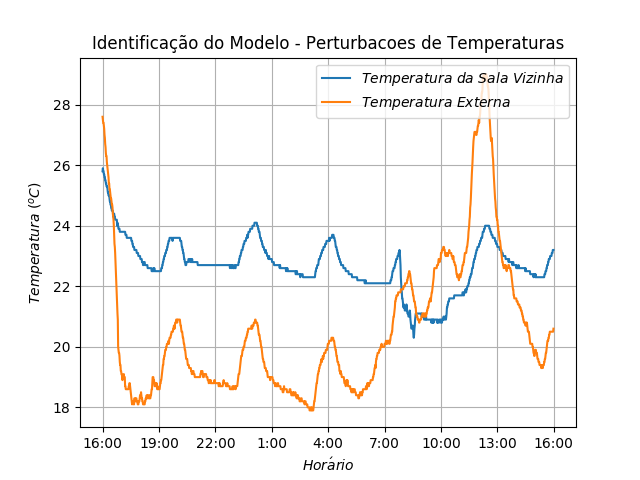
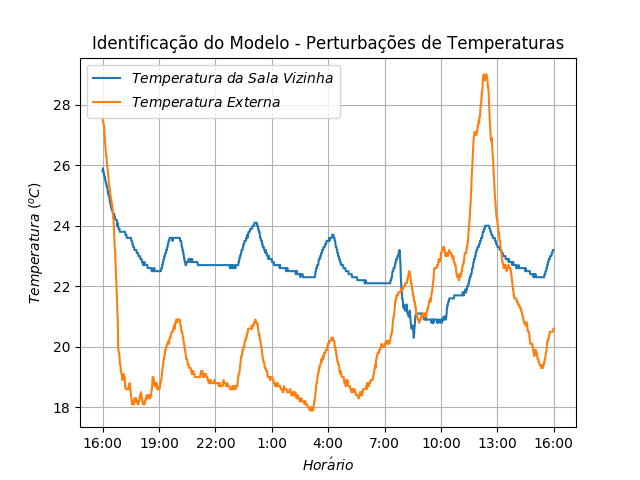
Grafico Identificacao 2.0

Changed region(s): [[0.125, 0.125, 0.9062, 0.25]]

diff --git a/Integracao/plotlib.py b/Integracao/plotlib.py
@@ -191,7 +191,7 @@ def plotModel (database, name, controllerType):
         else:
             compressorSignal.append(line[5])
             
-        if(cont == 0 or cont%56 == 0):
+        if(cont == 0 or cont%170 == 0):
             dateTimeClean.append(str(int(hour))+":00")
             
             if(cont == 0):
@@ -294,7 +294,7 @@ def plotModel (database, name, controllerType):
     plt.title(title + " - Temperatura")
     plt.ylabel(r"$Temperatura\ (^o C)$")
     plt.xlabel(r"$Hor\'ario$")
-    plt.xticks(range(0, cont, 56), dateTimeClean)
+    plt.xticks(range(0, cont, 170), dateTimeClean)
     plt.grid(True)
     plt.savefig("Log/"+save+"_"+name+"_Temp.png")
     plt.show()
@@ -302,11 +302,11 @@ def plotModel (database, name, controllerType):
     plt.figure()
     plt.plot(dateTime[1:], tempLara[1:])
     plt.plot(dateTime[1:], tempExternal[1:])
-    plt.legend((r"$Temperatura\ da\ Sala\ Vizinha$", r"$Temperatura\ Externa$"), loc='upper right')
-    plt.title(title + " - Perturbacoes de Temperaturas")
+    plt.legend((r"$Temperatura\ da\ Sala\ Vizinha$", r"$Temperatura\ Externa$"), loc='upper left')
+    plt.title(title + " - Perturbações de Temperaturas".decode("utf-8"))
     plt.ylabel(r"$Temperatura\ (^o C)$")
     plt.xlabel(r"$Hor\'ario$")
-    plt.xticks(range(0, cont, 56), dateTimeClean)
+    plt.xticks(range(0, cont, 170), dateTimeClean)
     plt.grid(True)
     plt.savefig("Log/"+save+"_"+name+"_TempExt.png")
     plt.show()
@@ -318,7 +318,7 @@ def plotModel (database, name, controllerType):
         plt.title(title + " - PMV")
         plt.ylabel(r"$PMV$")
         plt.xlabel(r"$Hor\'ario$")
-        plt.xticks(range(0, cont, 56), dateTimeClean)
+        plt.xticks(range(0, cont, 170), dateTimeClean)
         plt.grid(True)
         plt.savefig("Log/"+save+"_"+name+"_PMV.png")
         plt.show()
@@ -329,7 +329,7 @@ def plotModel (database, name, controllerType):
         plt.title(title + " - PPD")
         plt.ylabel(r"$PPD$")
         plt.xlabel(r"$Hor\'ario$")
-        plt.xticks(range(0, cont, 56), dateTimeClean)
+        plt.xticks(range(0, cont, 170), dateTimeClean)
         plt.grid(True)
         plt.savefig("Log/"+save+"_"+name+"_PPD.png")
         plt.show()
@@ -341,7 +341,7 @@ def plotModel (database, name, controllerType):
         plt.legend((r"$Sinal\ de\ Controle$", r"$Ciclo\ de\ Trabalho$"), loc='lower left')
         plt.ylabel(r"$Sinal$")
         plt.xlabel(r"$Hor\'ario$")
-        plt.xticks(range(0, cont, 56), dateTimeClean)
+        plt.xticks(range(0, cont, 170), dateTimeClean)
         plt.grid(True)
         plt.savefig("Log/"+save+"_"+name+"_Signal.png")
         plt.show()
@@ -352,7 +352,7 @@ def plotModel (database, name, controllerType):
             plt.title(title + " - Consumo")
             plt.ylabel(r"$Consumo (KWh)$")
             plt.xlabel(r"$Hor\'ario$")
-            plt.xticks(range(0, cont, 56), dateTimeClean)
+            plt.xticks(range(0, cont, 170), dateTimeClean)
             plt.grid(True)
             plt.savefig("Log/"+save+"_"+name+"_Energy.png")
             plt.show()
@@ -362,7 +362,7 @@ def plotModel (database, name, controllerType):
         plt.title(title + " - Contagem de Pessoas")
         plt.ylabel(r"$N\'umero\ de\ Pessoas$")
         plt.xlabel(r"$Hor\'ario$")
-        plt.xticks(range(0, cont, 56), dateTimeClean)
+        plt.xticks(range(0, cont, 170), dateTimeClean)
         plt.grid(True)
         plt.savefig("Log/"+save+"_"+name+"_People.png")
         plt.show()
@@ -372,7 +372,7 @@ def plotModel (database, name, controllerType):
         plt.title(title + " - Sinal da Porta")
         plt.ylabel(r"$Sinal$")
         plt.xlabel(r"$Hor\'ario$")
-        plt.xticks(range(0, cont, 56), dateTimeClean)
+        plt.xticks(range(0, cont, 170), dateTimeClean)
         plt.grid(True)
         plt.savefig("Log/"+save+"_"+name+"_Door.png")
         plt.show()
@@ -383,7 +383,7 @@ def plotModel (database, name, controllerType):
         plt.title(title + " - Acionamento")
         plt.ylabel(r"$Sinal$")
         plt.xlabel(r"$Hor\'ario$")
-        plt.xticks(range(0, cont, 56), dateTimeClean)
+        plt.xticks(range(0, cont, 170), dateTimeClean)
         plt.grid(True)
         plt.savefig("Log/"+save+"_"+name+"_Signal.png")
         plt.show()

diff --git a/Integracao/plots.py b/Integracao/plots.py
@@ -9,14 +9,14 @@ from sqlitelib import *
 # 1 -> Liga-Desliga
 # 2 -> PI
 # 3 -> Antecipativo
-controllerType = 3
+controllerType = 0
 
 # Identificacao
 # name = '2018-10-12 15:44:53'
 # name = '2018-10-13 13:10:18'
 # name = '2018-10-14 10:18:28'
 # name = '2018-10-23 22:43:46'
-# name = '2018-10-20_16-44-16' # OFICIAL
+name = '2018-10-20_16-44-16' # OFICIAL
 
 
 # Liga-Desliga
@@ -49,7 +49,7 @@ controllerType = 3
 # name = '2018-11-16_16-40-57' # oficial
 # name = '2018-11-17_17-12-29_01'
 # name = '2018-11-19_09-42-35'
-name = '2018-11-24_09-55-53_03' # 8 HORAS
+# name = '2018-11-24_09-55-53_06' # 8 HORAS
 
 database = InicializeDatabase(name)
 plotModel(database, name, controllerType)
